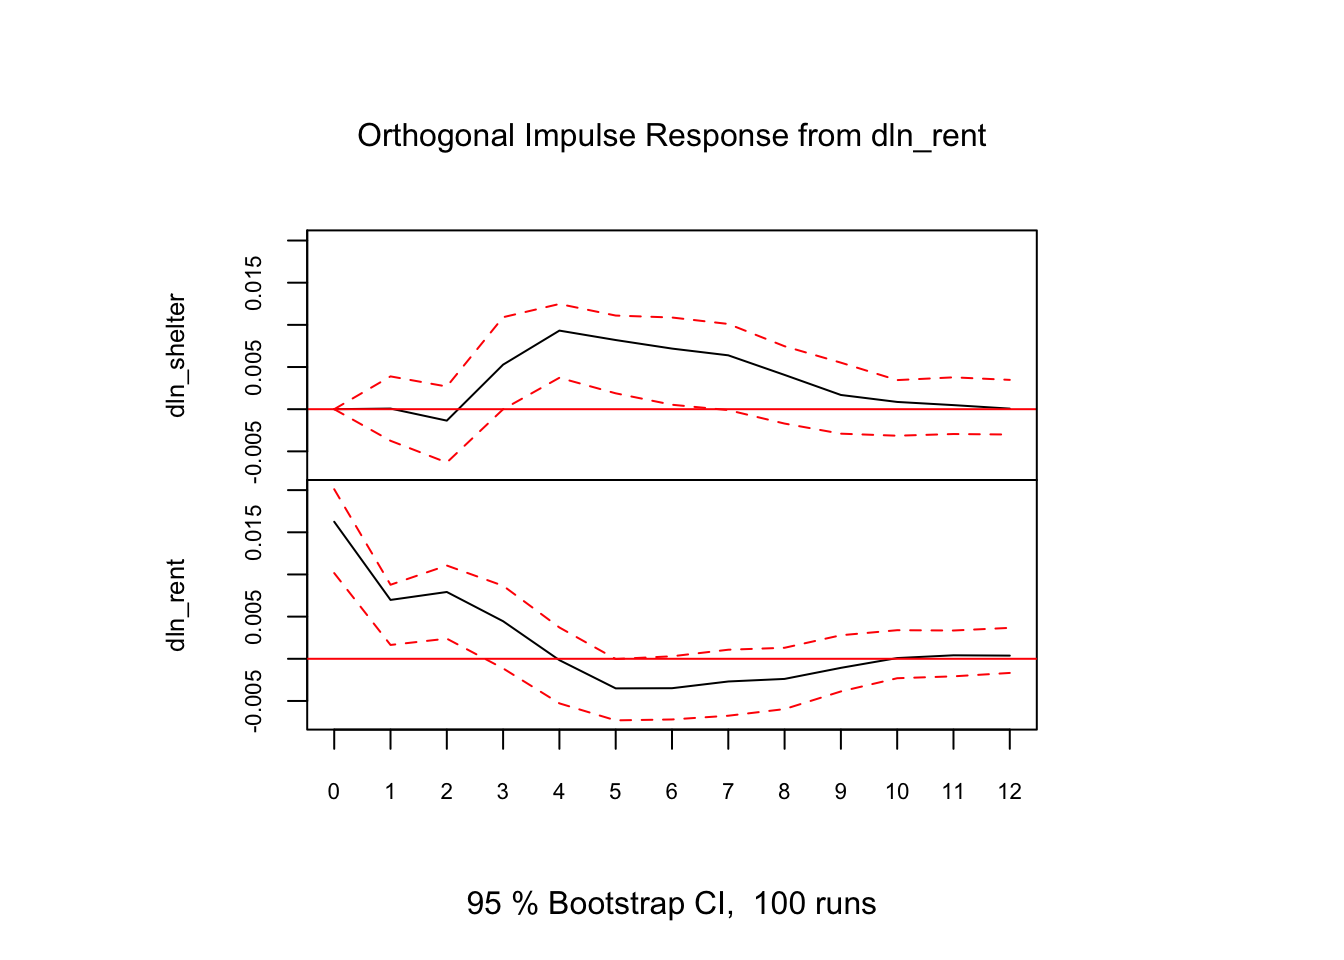
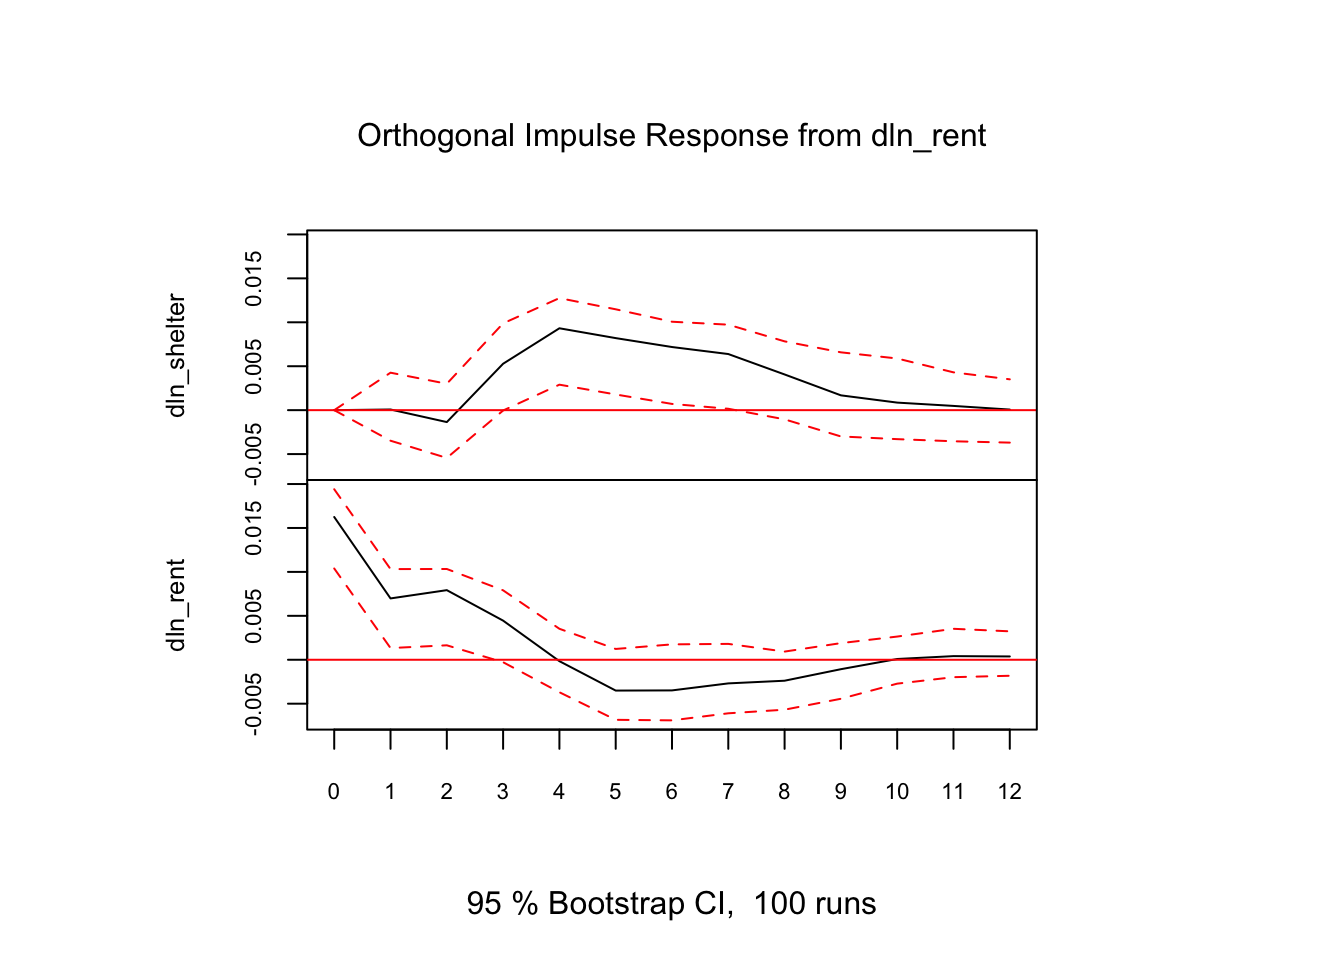
new updates

diff --git a/docs/projects/Refugees_EU.html b/docs/projects/Refugees_EU.html
@@ -700,8 +700,8 @@ Figure&nbsp;1
 
     <script>
 
-      function styleCell_e1w2kuhl4mi5hhzppak7(i, j, css_id) {
-          var table = document.getElementById("tinytable_e1w2kuhl4mi5hhzppak7");
+      function styleCell_wjib30jkb24kagmeyxfg(i, j, css_id) {
+          var table = document.getElementById("tinytable_wjib30jkb24kagmeyxfg");
           var cell = table.querySelector(`[data-row="${i}"][data-col="${j}"]`);
           if (cell) {
               console.log(`Styling cell at (${i}, ${j}) with class ${css_id}`);
@@ -710,8 +710,8 @@ Figure&nbsp;1
               console.warn(`Cell at (${i}, ${j}) not found.`);
           }
       }
-      function spanCell_e1w2kuhl4mi5hhzppak7(i, j, rowspan, colspan) {
-        var table = document.getElementById("tinytable_e1w2kuhl4mi5hhzppak7");
+      function spanCell_wjib30jkb24kagmeyxfg(i, j, rowspan, colspan) {
+        var table = document.getElementById("tinytable_wjib30jkb24kagmeyxfg");
         const targetCell = table.querySelector(`[data-row="${i}"][data-col="${j}"]`);
         if (!targetCell) {
           console.warn(`Cell at (${i}, ${j}) not found.`);
@@ -742,20 +742,20 @@ Figure&nbsp;1
       window.addEventListener('load', function () {
           var cellsToStyle = [
             // tinytable style arrays after
-          { positions: [ { i: '9', j: 1 }, { i: '9', j: 2 },  ], css_id: 'tinytable_css_ezkii8dbnqjqexz5ruy6',}, 
-          { positions: [ { i: '6', j: 2 }, { i: '6', j: 1 },  ], css_id: 'tinytable_css_d2lafuugqsu1uhb284ik',}, 
-          { positions: [ { i: '1', j: 1 }, { i: '3', j: 1 }, { i: '4', j: 1 }, { i: '5', j: 1 }, { i: '2', j: 1 }, { i: '7', j: 1 }, { i: '8', j: 1 }, { i: '3', j: 2 }, { i: '4', j: 2 }, { i: '1', j: 2 }, { i: '2', j: 2 }, { i: '7', j: 2 }, { i: '8', j: 2 }, { i: '5', j: 2 },  ], css_id: 'tinytable_css_r0ah9v6677qfucq8taag',}, 
-          { positions: [ { i: '0', j: 1 }, { i: '0', j: 2 },  ], css_id: 'tinytable_css_08s6btfl2drbd3bswdrd',}, 
-          { positions: [ { i: '9', j: 0 },  ], css_id: 'tinytable_css_hwjj0viexgyv3ciasqxv',}, 
-          { positions: [ { i: '6', j: 0 },  ], css_id: 'tinytable_css_xvo9gmxjch6reovzjq09',}, 
-          { positions: [ { i: '1', j: 0 }, { i: '2', j: 0 }, { i: '3', j: 0 }, { i: '4', j: 0 }, { i: '5', j: 0 }, { i: '7', j: 0 }, { i: '8', j: 0 },  ], css_id: 'tinytable_css_6nbnkd1dsr7vu8pxgvf6',}, 
-          { positions: [ { i: '0', j: 0 },  ], css_id: 'tinytable_css_mk9s6ddxc9x8xat8l434',}, 
+          { positions: [ { i: '9', j: 1 }, { i: '9', j: 2 },  ], css_id: 'tinytable_css_nyjia5gajhfvamtexg32',}, 
+          { positions: [ { i: '6', j: 2 }, { i: '6', j: 1 },  ], css_id: 'tinytable_css_q3jnm7rk5wxuzmunp7ms',}, 
+          { positions: [ { i: '1', j: 1 }, { i: '3', j: 1 }, { i: '4', j: 1 }, { i: '5', j: 1 }, { i: '2', j: 1 }, { i: '7', j: 1 }, { i: '8', j: 1 }, { i: '3', j: 2 }, { i: '4', j: 2 }, { i: '1', j: 2 }, { i: '2', j: 2 }, { i: '7', j: 2 }, { i: '8', j: 2 }, { i: '5', j: 2 },  ], css_id: 'tinytable_css_dbvn3lu2whoqwef9y225',}, 
+          { positions: [ { i: '0', j: 1 }, { i: '0', j: 2 },  ], css_id: 'tinytable_css_qm1hsxi42b7wu6yudj30',}, 
+          { positions: [ { i: '9', j: 0 },  ], css_id: 'tinytable_css_co498o48noiqj3p1vneo',}, 
+          { positions: [ { i: '6', j: 0 },  ], css_id: 'tinytable_css_hb8knoz75y307yylgsyg',}, 
+          { positions: [ { i: '1', j: 0 }, { i: '2', j: 0 }, { i: '3', j: 0 }, { i: '4', j: 0 }, { i: '5', j: 0 }, { i: '7', j: 0 }, { i: '8', j: 0 },  ], css_id: 'tinytable_css_w72oaic796imrco9dpqk',}, 
+          { positions: [ { i: '0', j: 0 },  ], css_id: 'tinytable_css_wc37xfod4evie9p8vz8b',}, 
           ];
 
           // Loop over the arrays to style the cells
           cellsToStyle.forEach(function (group) {
               group.positions.forEach(function (cell) {
-                  styleCell_e1w2kuhl4mi5hhzppak7(cell.i, cell.j, group.css_id);
+                  styleCell_wjib30jkb24kagmeyxfg(cell.i, cell.j, group.css_id);
               });
           });
       });
@@ -763,17 +763,17 @@ Figure&nbsp;1
 
     <style>
       /* tinytable css entries after */
-      .table td.tinytable_css_ezkii8dbnqjqexz5ruy6, .table th.tinytable_css_ezkii8dbnqjqexz5ruy6 { text-align: center; border-bottom: solid #d3d8dc 0.1em; }
-      .table td.tinytable_css_d2lafuugqsu1uhb284ik, .table th.tinytable_css_d2lafuugqsu1uhb284ik { text-align: center; border-bottom: solid black 0.05em; }
-      .table td.tinytable_css_r0ah9v6677qfucq8taag, .table th.tinytable_css_r0ah9v6677qfucq8taag { text-align: center; }
-      .table td.tinytable_css_08s6btfl2drbd3bswdrd, .table th.tinytable_css_08s6btfl2drbd3bswdrd { text-align: center; border-top: solid #d3d8dc 0.1em; border-bottom: solid #d3d8dc 0.05em; }
-      .table td.tinytable_css_hwjj0viexgyv3ciasqxv, .table th.tinytable_css_hwjj0viexgyv3ciasqxv { text-align: left; border-bottom: solid #d3d8dc 0.1em; }
-      .table td.tinytable_css_xvo9gmxjch6reovzjq09, .table th.tinytable_css_xvo9gmxjch6reovzjq09 { text-align: left; border-bottom: solid black 0.05em; }
-      .table td.tinytable_css_6nbnkd1dsr7vu8pxgvf6, .table th.tinytable_css_6nbnkd1dsr7vu8pxgvf6 { text-align: left; }
-      .table td.tinytable_css_mk9s6ddxc9x8xat8l434, .table th.tinytable_css_mk9s6ddxc9x8xat8l434 { text-align: left; border-top: solid #d3d8dc 0.1em; border-bottom: solid #d3d8dc 0.05em; }
+      .table td.tinytable_css_nyjia5gajhfvamtexg32, .table th.tinytable_css_nyjia5gajhfvamtexg32 { text-align: center; border-bottom: solid #d3d8dc 0.1em; }
+      .table td.tinytable_css_q3jnm7rk5wxuzmunp7ms, .table th.tinytable_css_q3jnm7rk5wxuzmunp7ms { text-align: center; border-bottom: solid black 0.05em; }
+      .table td.tinytable_css_dbvn3lu2whoqwef9y225, .table th.tinytable_css_dbvn3lu2whoqwef9y225 { text-align: center; }
+      .table td.tinytable_css_qm1hsxi42b7wu6yudj30, .table th.tinytable_css_qm1hsxi42b7wu6yudj30 { text-align: center; border-top: solid #d3d8dc 0.1em; border-bottom: solid #d3d8dc 0.05em; }
+      .table td.tinytable_css_co498o48noiqj3p1vneo, .table th.tinytable_css_co498o48noiqj3p1vneo { text-align: left; border-bottom: solid #d3d8dc 0.1em; }
+      .table td.tinytable_css_hb8knoz75y307yylgsyg, .table th.tinytable_css_hb8knoz75y307yylgsyg { text-align: left; border-bottom: solid black 0.05em; }
+      .table td.tinytable_css_w72oaic796imrco9dpqk, .table th.tinytable_css_w72oaic796imrco9dpqk { text-align: left; }
+      .table td.tinytable_css_wc37xfod4evie9p8vz8b, .table th.tinytable_css_wc37xfod4evie9p8vz8b { text-align: left; border-top: solid #d3d8dc 0.1em; border-bottom: solid #d3d8dc 0.05em; }
     </style>
     <div class="container">
-      <table class="table table-borderless" id="tinytable_e1w2kuhl4mi5hhzppak7" style="width: auto; margin-left: auto; margin-right: auto;" data-quarto-disable-processing="true">
+      <table class="table table-borderless" id="tinytable_wjib30jkb24kagmeyxfg" style="width: auto; margin-left: auto; margin-right: auto;" data-quarto-disable-processing="true">
         <thead>
         
               <tr>

diff --git a/docs/visualizations.html b/docs/visualizations.html
@@ -159,7 +159,11 @@ ul.task-list li input[type="checkbox"] {
 <hr>
 <div class="viz-grid">
 <div class="viz-card">
-<p><a href="assets/images/visualizations/mds_embedding_k10.png" class="viz-link" target="_blank"><img src="assets/images/visualizations/mds_embedding_k10.png" class="viz-img img-fluid"></a> ::: {.viz-body} ### PAM Clustering: K=10 Victim Profiles (MDS Embedding) ::: {.viz-caption} MDS embedding of PAM clustering results using Gower distance, identifying 10 distinct forced labour victim profiles across demographic and socioeconomic dimensions.</p>
+<p><a href="assets/images/visualizations/mds_embedding_k10.png" class="viz-link" target="_blank"><img src="assets/images/visualizations/mds_embedding_k10.png" class="viz-img img-fluid"></a></p>
+<section id="pam-clustering-k10-victim-profiles-mds-embedding" class="level3 viz-body">
+<h3 class="anchored" data-anchor-id="pam-clustering-k10-victim-profiles-mds-embedding">PAM Clustering: K=10 Victim Profiles (MDS Embedding)</h3>
+<div class="viz-caption">
+<p>MDS embedding of PAM clustering results using Gower distance, identifying 10 distinct forced labour victim profiles across demographic and socioeconomic dimensions.</p>
 </div>
 <div class="viz-tags">
 <p><span class="tag">Clustering</span> <span class="tag">Forced Labour</span> <span class="tag">MDS</span></p>
@@ -167,8 +171,8 @@ ul.task-list li input[type="checkbox"] {
 <div class="viz-actions">
 <p><a href="assets/images/visualizations/mds_embedding_k10.png" class="btn btn-outline-primary" target="_blank">Open</a></p>
 </div>
+</section>
 </div>
-<p>:::</p>
 <div class="viz-card">
 <p><a href="assets/images/visualizations/Absentiesm_by_county.png" class="viz-link" target="_blank"><img src="assets/images/visualizations/Absentiesm_by_county.png" class="viz-img img-fluid"></a></p>
 <section id="average-chronic-absenteeism-by-county-california" class="level3 viz-body">
@@ -229,7 +233,7 @@ ul.task-list li input[type="checkbox"] {
 </div>
 </section>
 </div>
-<p>:::</p>
+</div>
 
 
 